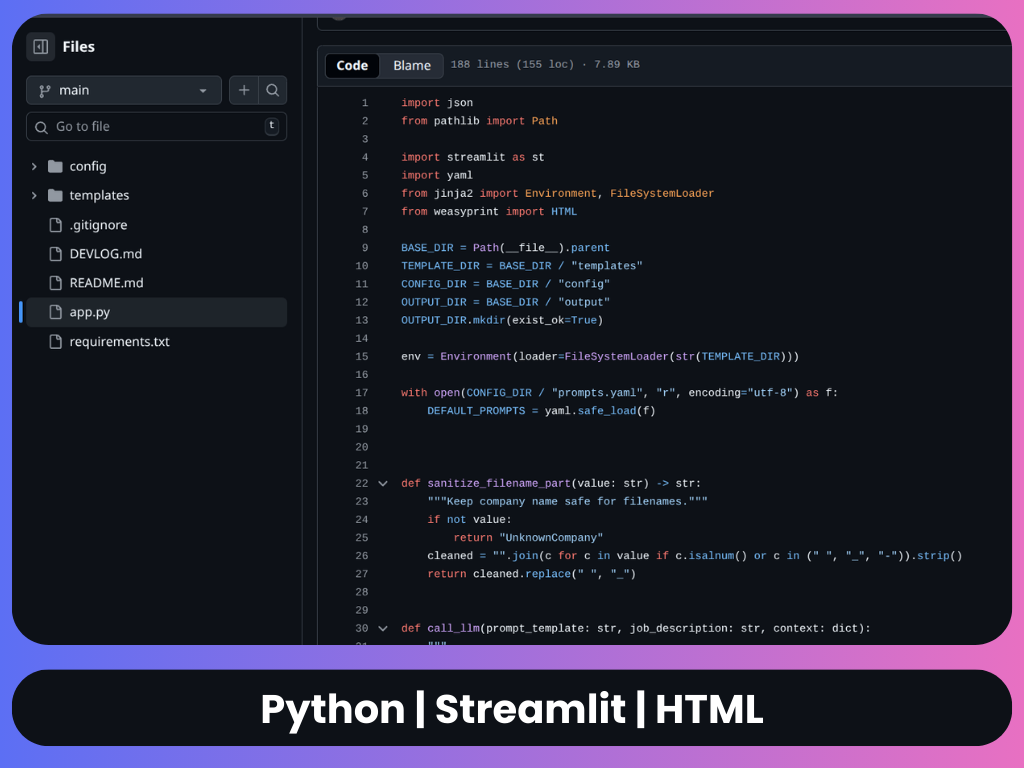
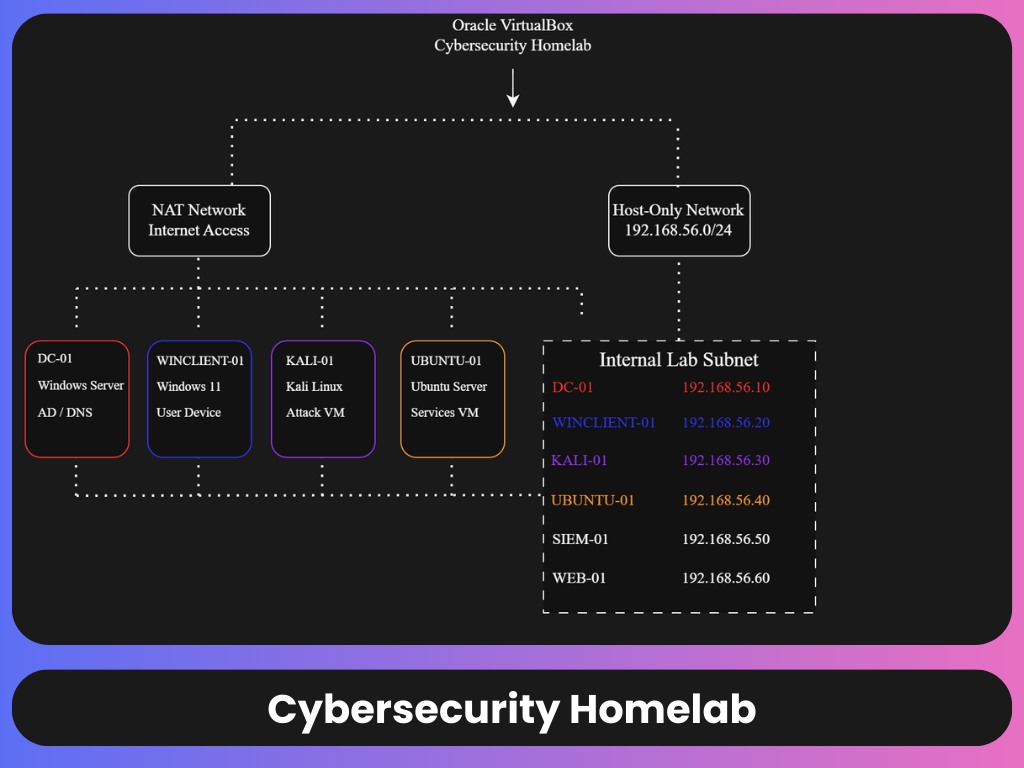
Update website

diff --git a/index.html b/index.html
@@ -227,21 +227,21 @@
                     loading="lazy"
                     decoding="async"
                 />
-                <h3>ATS Application Generator</h3>
-                <p>A local desktop web application built with Python and Streamlit that genrates: A tailored resume(PDF), a tailored cover letter(PDF), a formal follow up email. This porject is designed to automate and streamline the job application process by dynamically adapting documents to a pasted job description.</p>
+                <h3>Cybersecurity Homelab</h3>
+                <p>A custom-built virtual lab used to develop and document hands-on experience in network security, system administration, attack simulation, defensive monitoring, and enterprise-style lab architecture.</p>
                     <div class="btn-group">
                         <a
                             class="btn"
-                            href="https://github.com/gregory-dean/ats-application-generator/blob/main/app.py"
+                            href="https://github.com/gregory-dean/cybersecurity-homelab/tree/main/projects/00-lab-foundation-and-networking"
                             target="_blank"
                             rel="noopener noreferrer"
                         >
-                            View Code
+                            View Project
                         </a>
 
                         <a
                             class="btn"
-                            href="https://github.com/gregory-dean/ats-application-generator"
+                            href="https://github.com/gregory-dean/cybersecurity-homelab"
                             target="_blank"
                             rel="noopener noreferrer"
                         >
